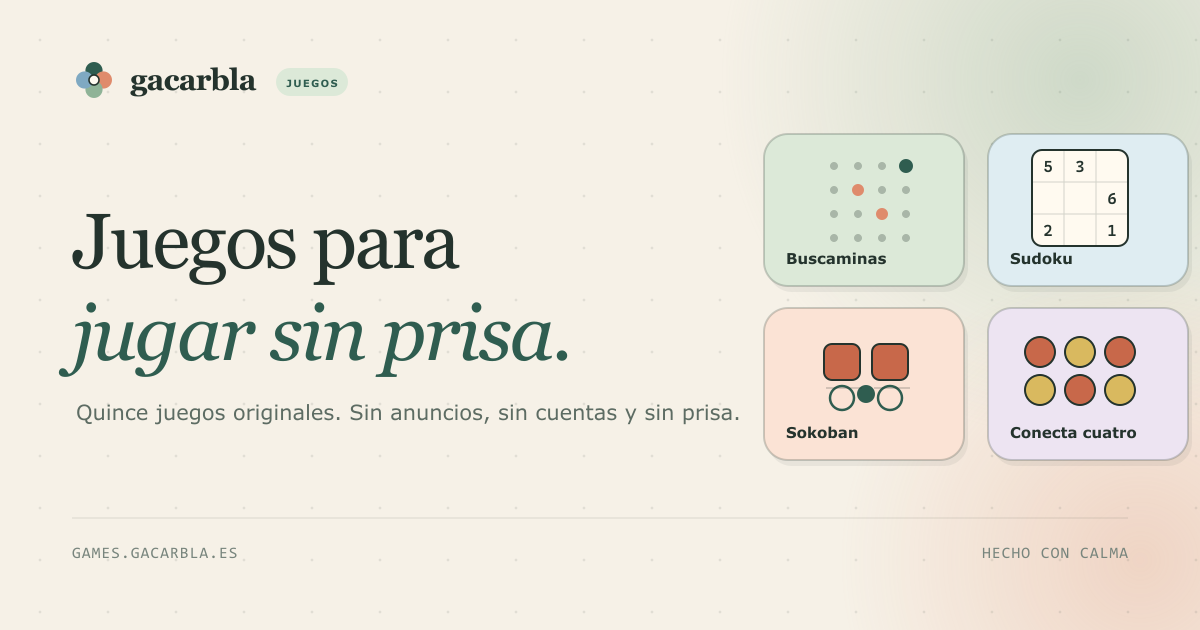
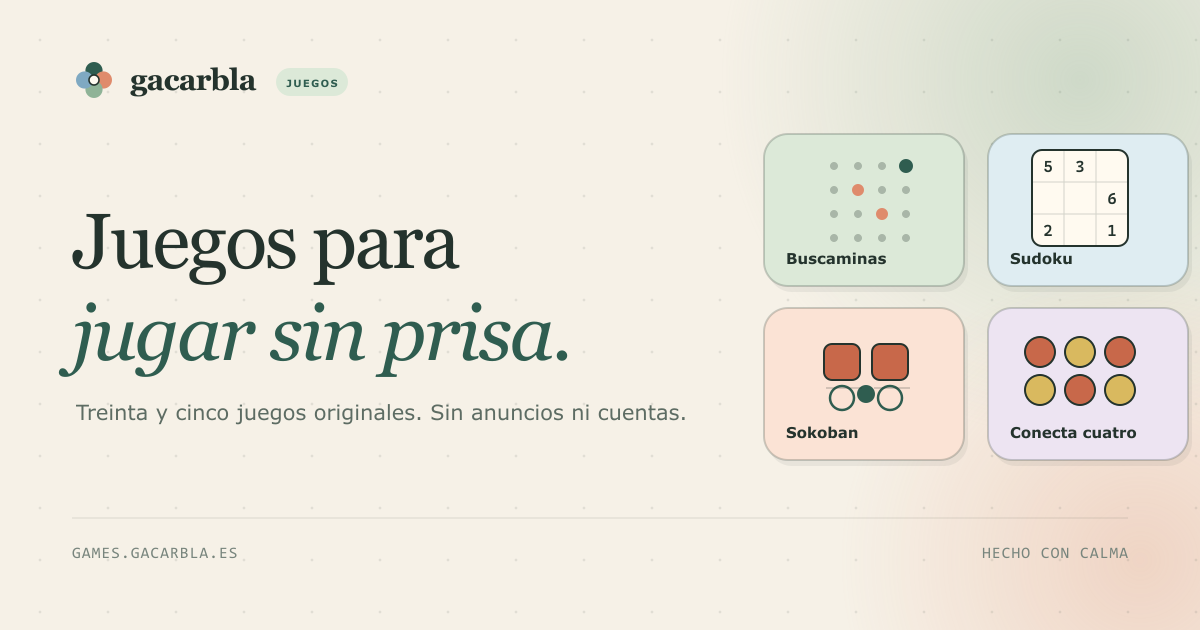
EDIT: adapta el portal, las portadas y el QA a 35 juegos

Changed region(s): [[0.0617, 0.6333, 0.6167, 0.6937]]

diff --git a/src/data/site.ts b/src/data/site.ts
@@ -2,7 +2,7 @@ export const SITE = {
   name: 'gacarbla juegos',
   title: 'gacarbla juegos',
   description:
-    'Quince juegos originales para jugar un rato sin prisa. Sin anuncios, sin cuentas y sin notificaciones.',
+    'Treinta y cinco juegos originales para jugar un rato sin prisa. Sin anuncios, sin cuentas y sin notificaciones.',
   url: 'https://games.gacarbla.es',
   domain: 'games.gacarbla.es',
   locale: 'es_ES',
